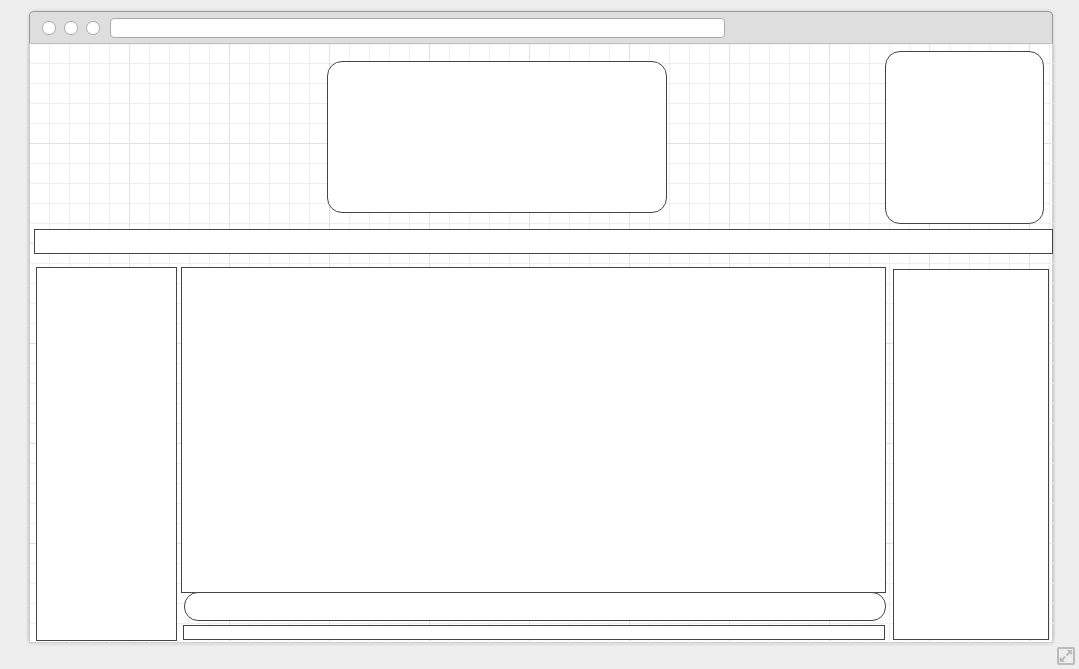
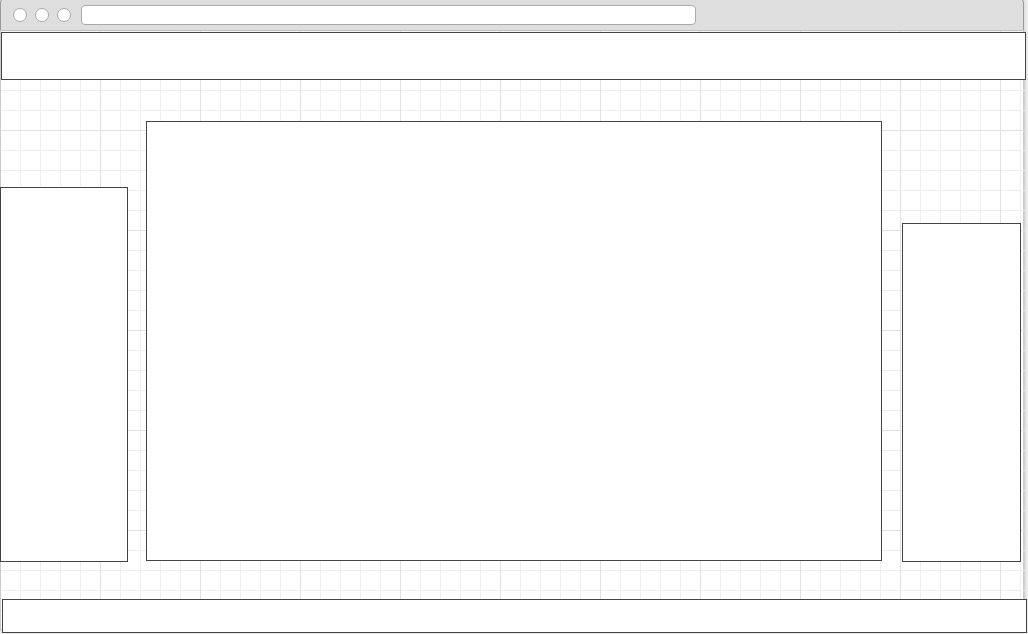
Atualização do wireframe

diff --git a/estilo.css b/estilo.css
@@ -1,0 +1,53 @@
+ #menu-bar {
+              width: 100%;
+              margin: 0px 0px 0px 0px;
+              padding: 5px 8px 6px 9px;
+              height: 41px;
+              line-height: 100%;
+              border-radius: 0px;
+              -webkit-border-radius: 0px;
+              -moz-border-radius: 0px;
+              box-shadow: 2px 2px 3px #666666;
+              -webkit-box-shadow: 2px 2px 3px #666666;
+              -moz-box-shadow: 2px 2px 3px #666666;
+              background: #000000;
+              border: groove 2px #6D6D6D;
+              position:relative;
+              z-index:999;
+    }
+            #menu-bar li {
+              margin: 0px 0px 6px 0px;
+              padding: 2px 160px 0px 0px;
+              float: left;
+              position: relative;
+              list-style: none;
+    }
+            #menu-bar a {
+              font-weight: bold;
+              font-family: arial;
+              font-style: normal;
+              font-size: 12px;
+              color: #E7E5E5;
+              text-decoration: none;
+              display: block;
+              padding: 5px 22px 7px 20px;
+              margin: 0;
+              margin-bottom: 6px;
+              border-radius: 0px;
+              -webkit-border-radius: 0px;
+              -moz-border-radius: 0px;
+              text-shadow: 2px 2px 3px #000000;
+            }
+        
+            #menu-bar .active a, #menu-bar li:hover > a {
+              background: #0399D4;
+              background: linear-gradient(top,  #EBEBEB,  #A1A1A1);
+              background: -ms-linear-gradient(top,  #EBEBEB,  #A1A1A1);
+              background: -webkit-gradient(linear, left top, left bottom, from(#EBEBEB), to(#A1A1A1));
+              background: -moz-linear-gradient(top,  #EBEBEB,  #A1A1A1);
+              color: #444444;
+              -webkit-box-shadow: 0 1px 1px rgba(0, 0, 0, .2);
+              -moz-box-shadow: 0 1px 1px rgba(0, 0, 0, .2);
+              box-shadow: 0 1px 1px rgba(0, 0, 0, .2);
+              text-shadow: 0px 2px 25px #FFFFFF;
+            }

diff --git a/wireframe.html b/wireframe.html
@@ -7,7 +7,7 @@
 </head>
 <body>
     <figure>
-        <img src= "Imagens/wireframe.jpg" alt="wireframe" />                                                                       
+        <img src= "Imagens/wireframe.png" alt="wireframe" />                                                                       
     </figure>    
 </body>
 </html>

diff --git a/site.php b/site.php
@@ -1,0 +1,15 @@
+<!doctype HTML>
+<html>
+    <head>
+        <meta charset = "utf-8">
+        <meta name = "author" content ="Vinícius Azevedo - 31603289 / Mateus Nunes - 31657461">
+        <link rel="stylesheet" type="text/css" href="estilo.css">
+    </head>
+    <body>
+        <header>
+        <?php
+            include 'menu.php';
+        ?>
+        </header>
+    </body>
+</html>

diff --git a/menu.php b/menu.php
@@ -1,0 +1,10 @@
+
+        <ul id="menu-bar">
+             <li class="active"><a href="#">Home</a></li>
+             <li><a href="#">Feed de Publicações</a>
+         </li>
+         <li><a href="#">Suporte</a>
+         </li>
+         <li><a href="#">Sobre o site</a></li>
+         <li><a href="#">Saída</a></li>
+        </ul>
